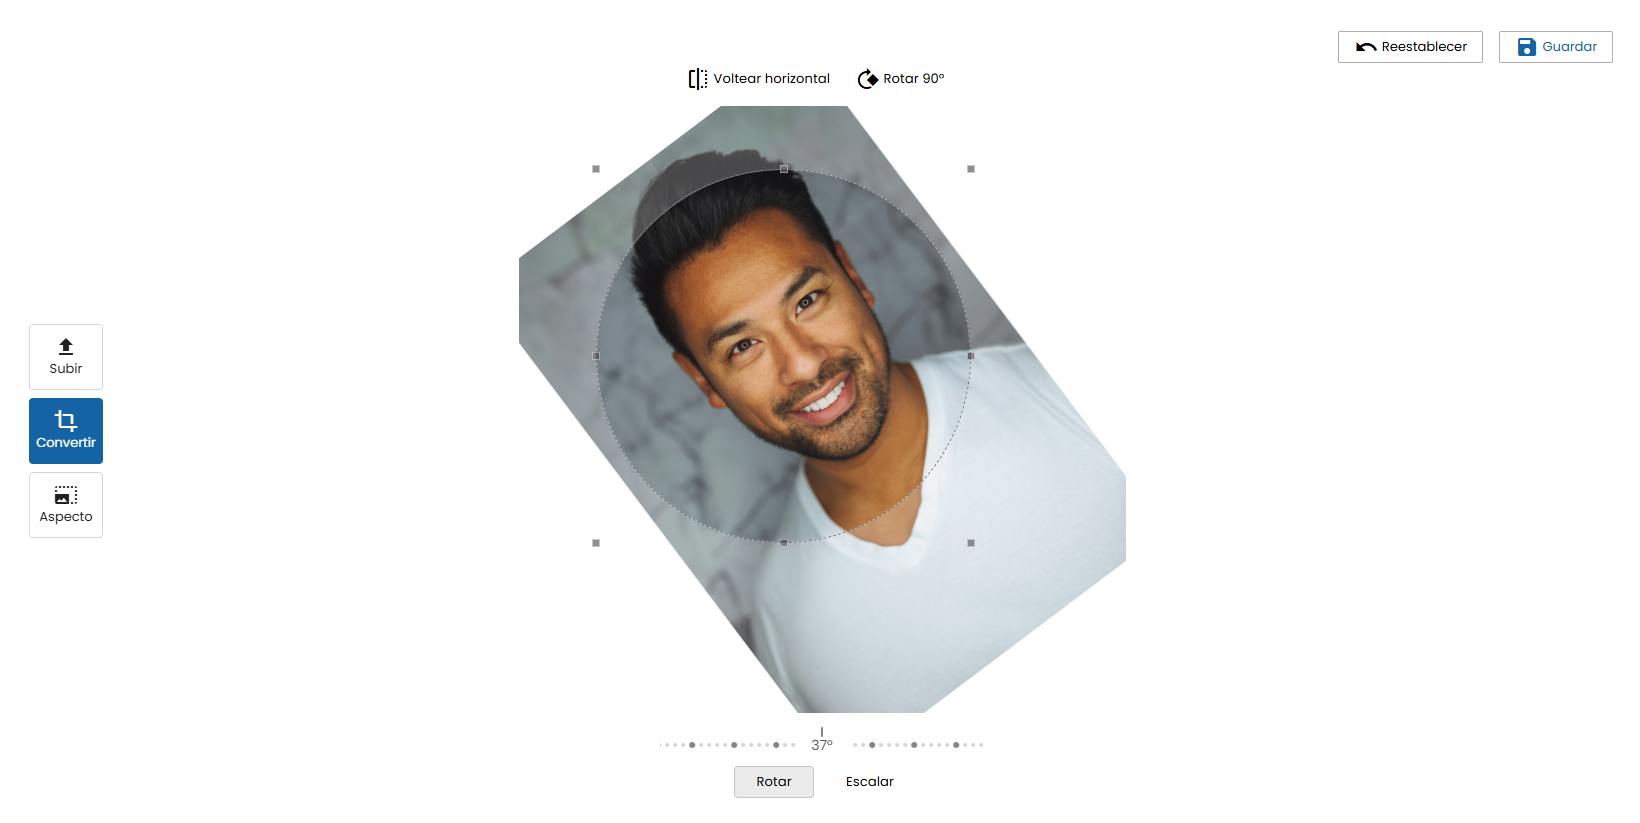
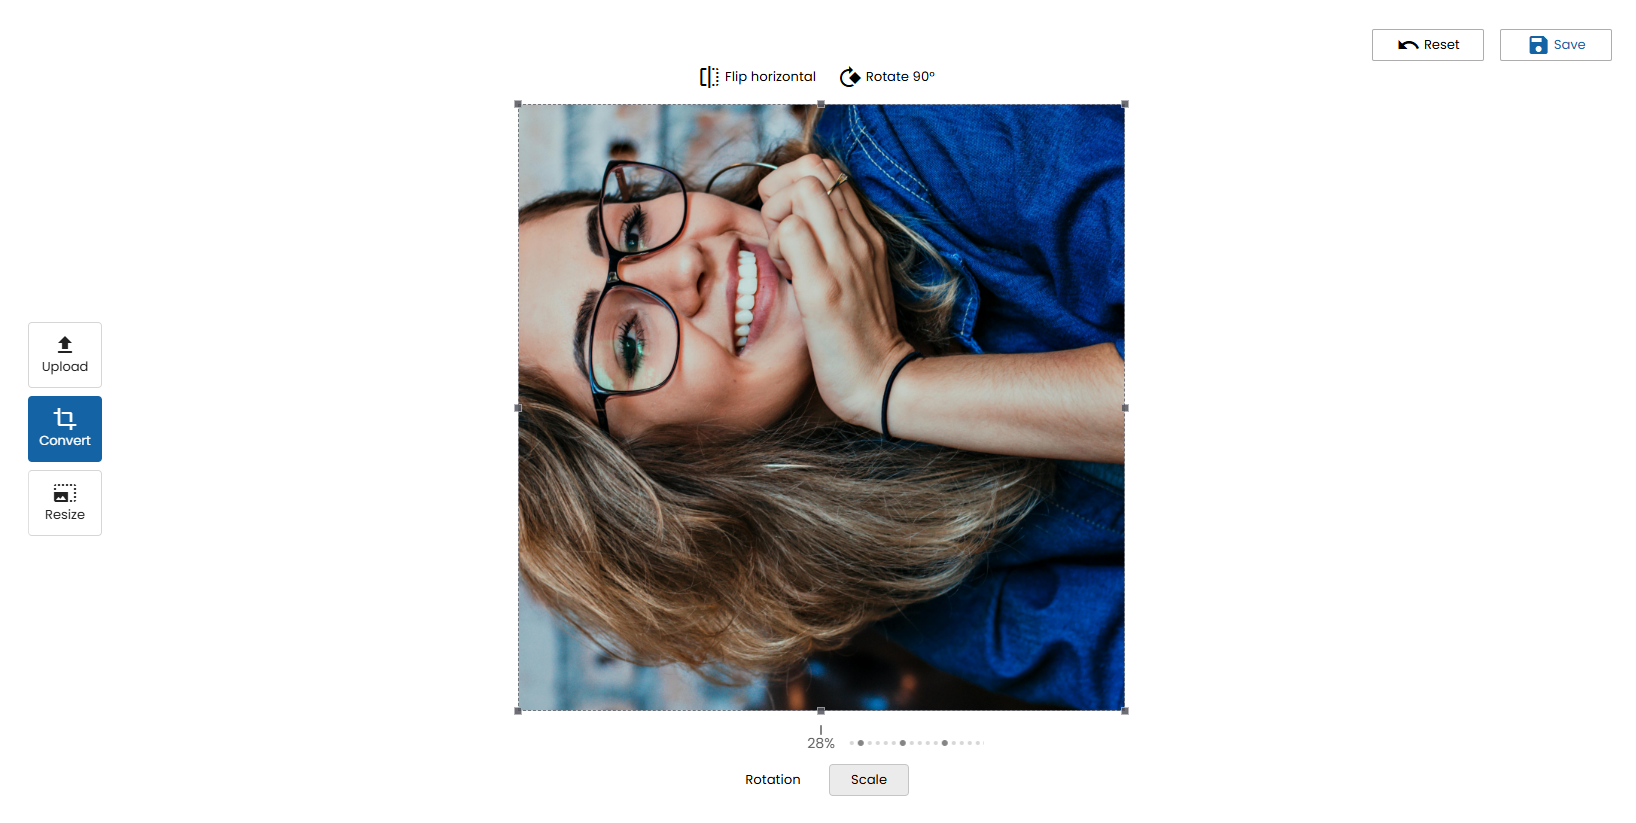
fix: change images

diff --git a/docs/extra-components/image-editor/o-image-editor.component.md b/docs/extra-components/image-editor/o-image-editor.component.md
@@ -1,5 +1,5 @@
 ---
-layout: o-component
+layout: default
 permalink: /extra-components/image-editor/overview
 title: "Image Editor"
 comp: image-editor
